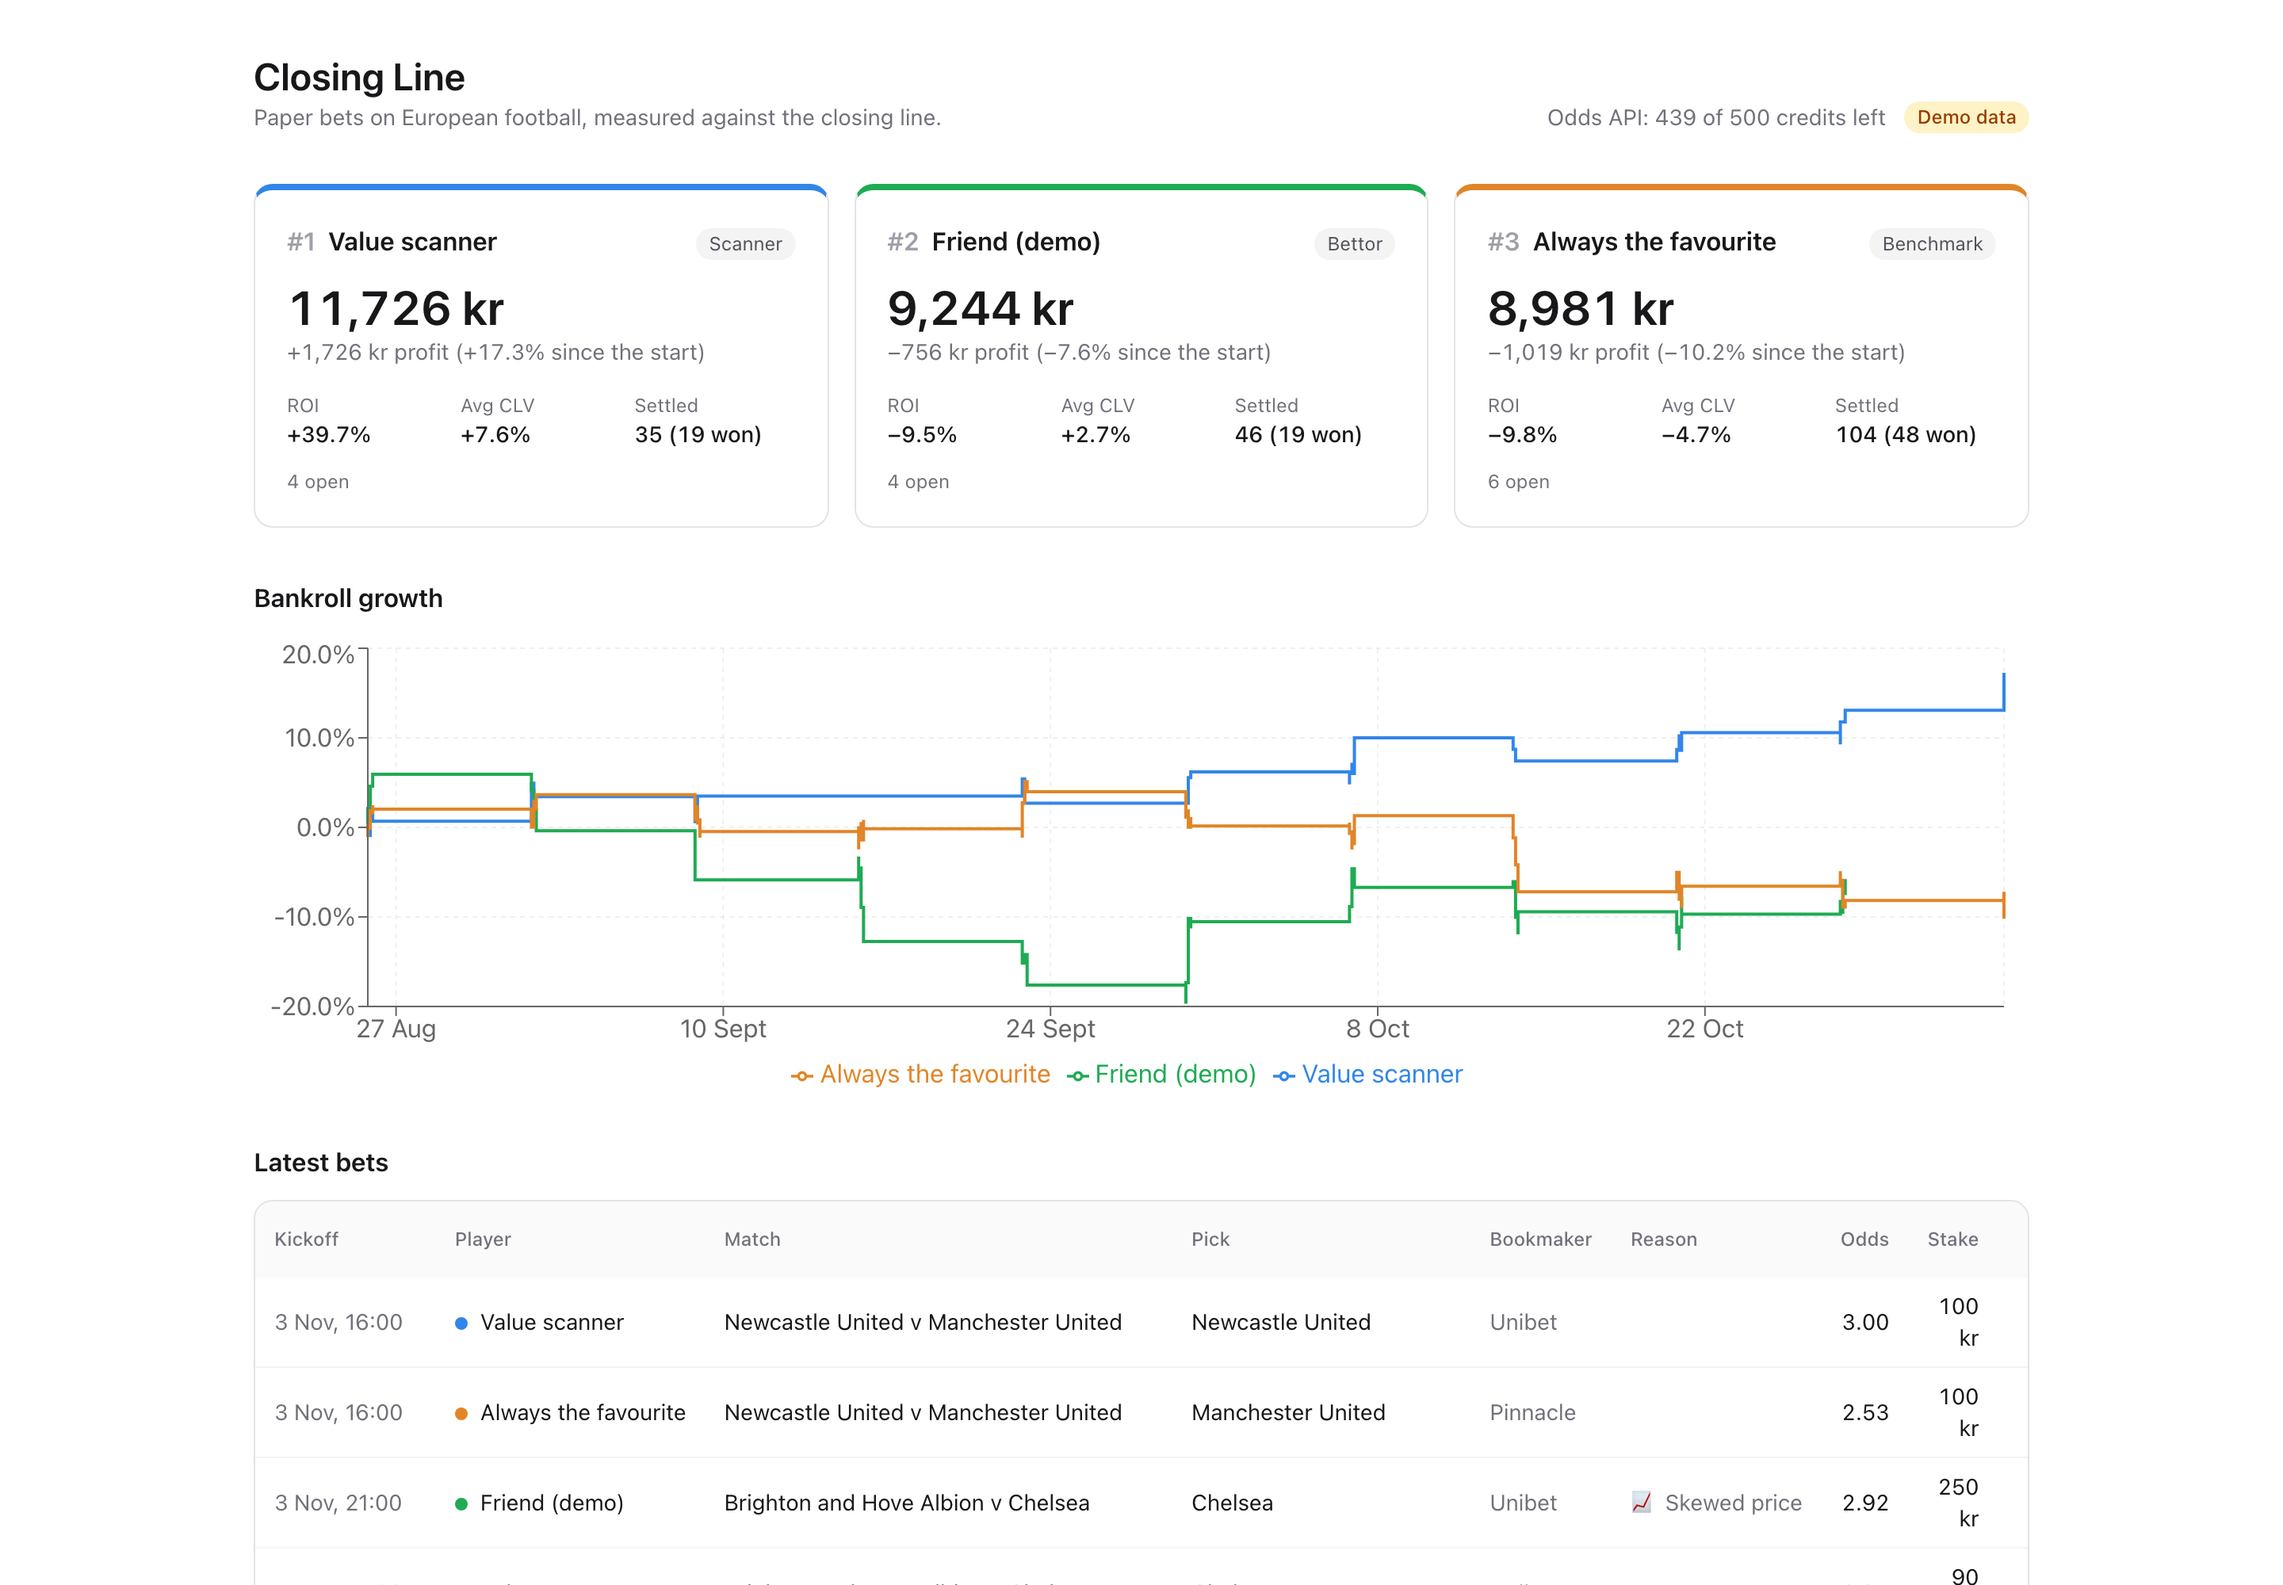
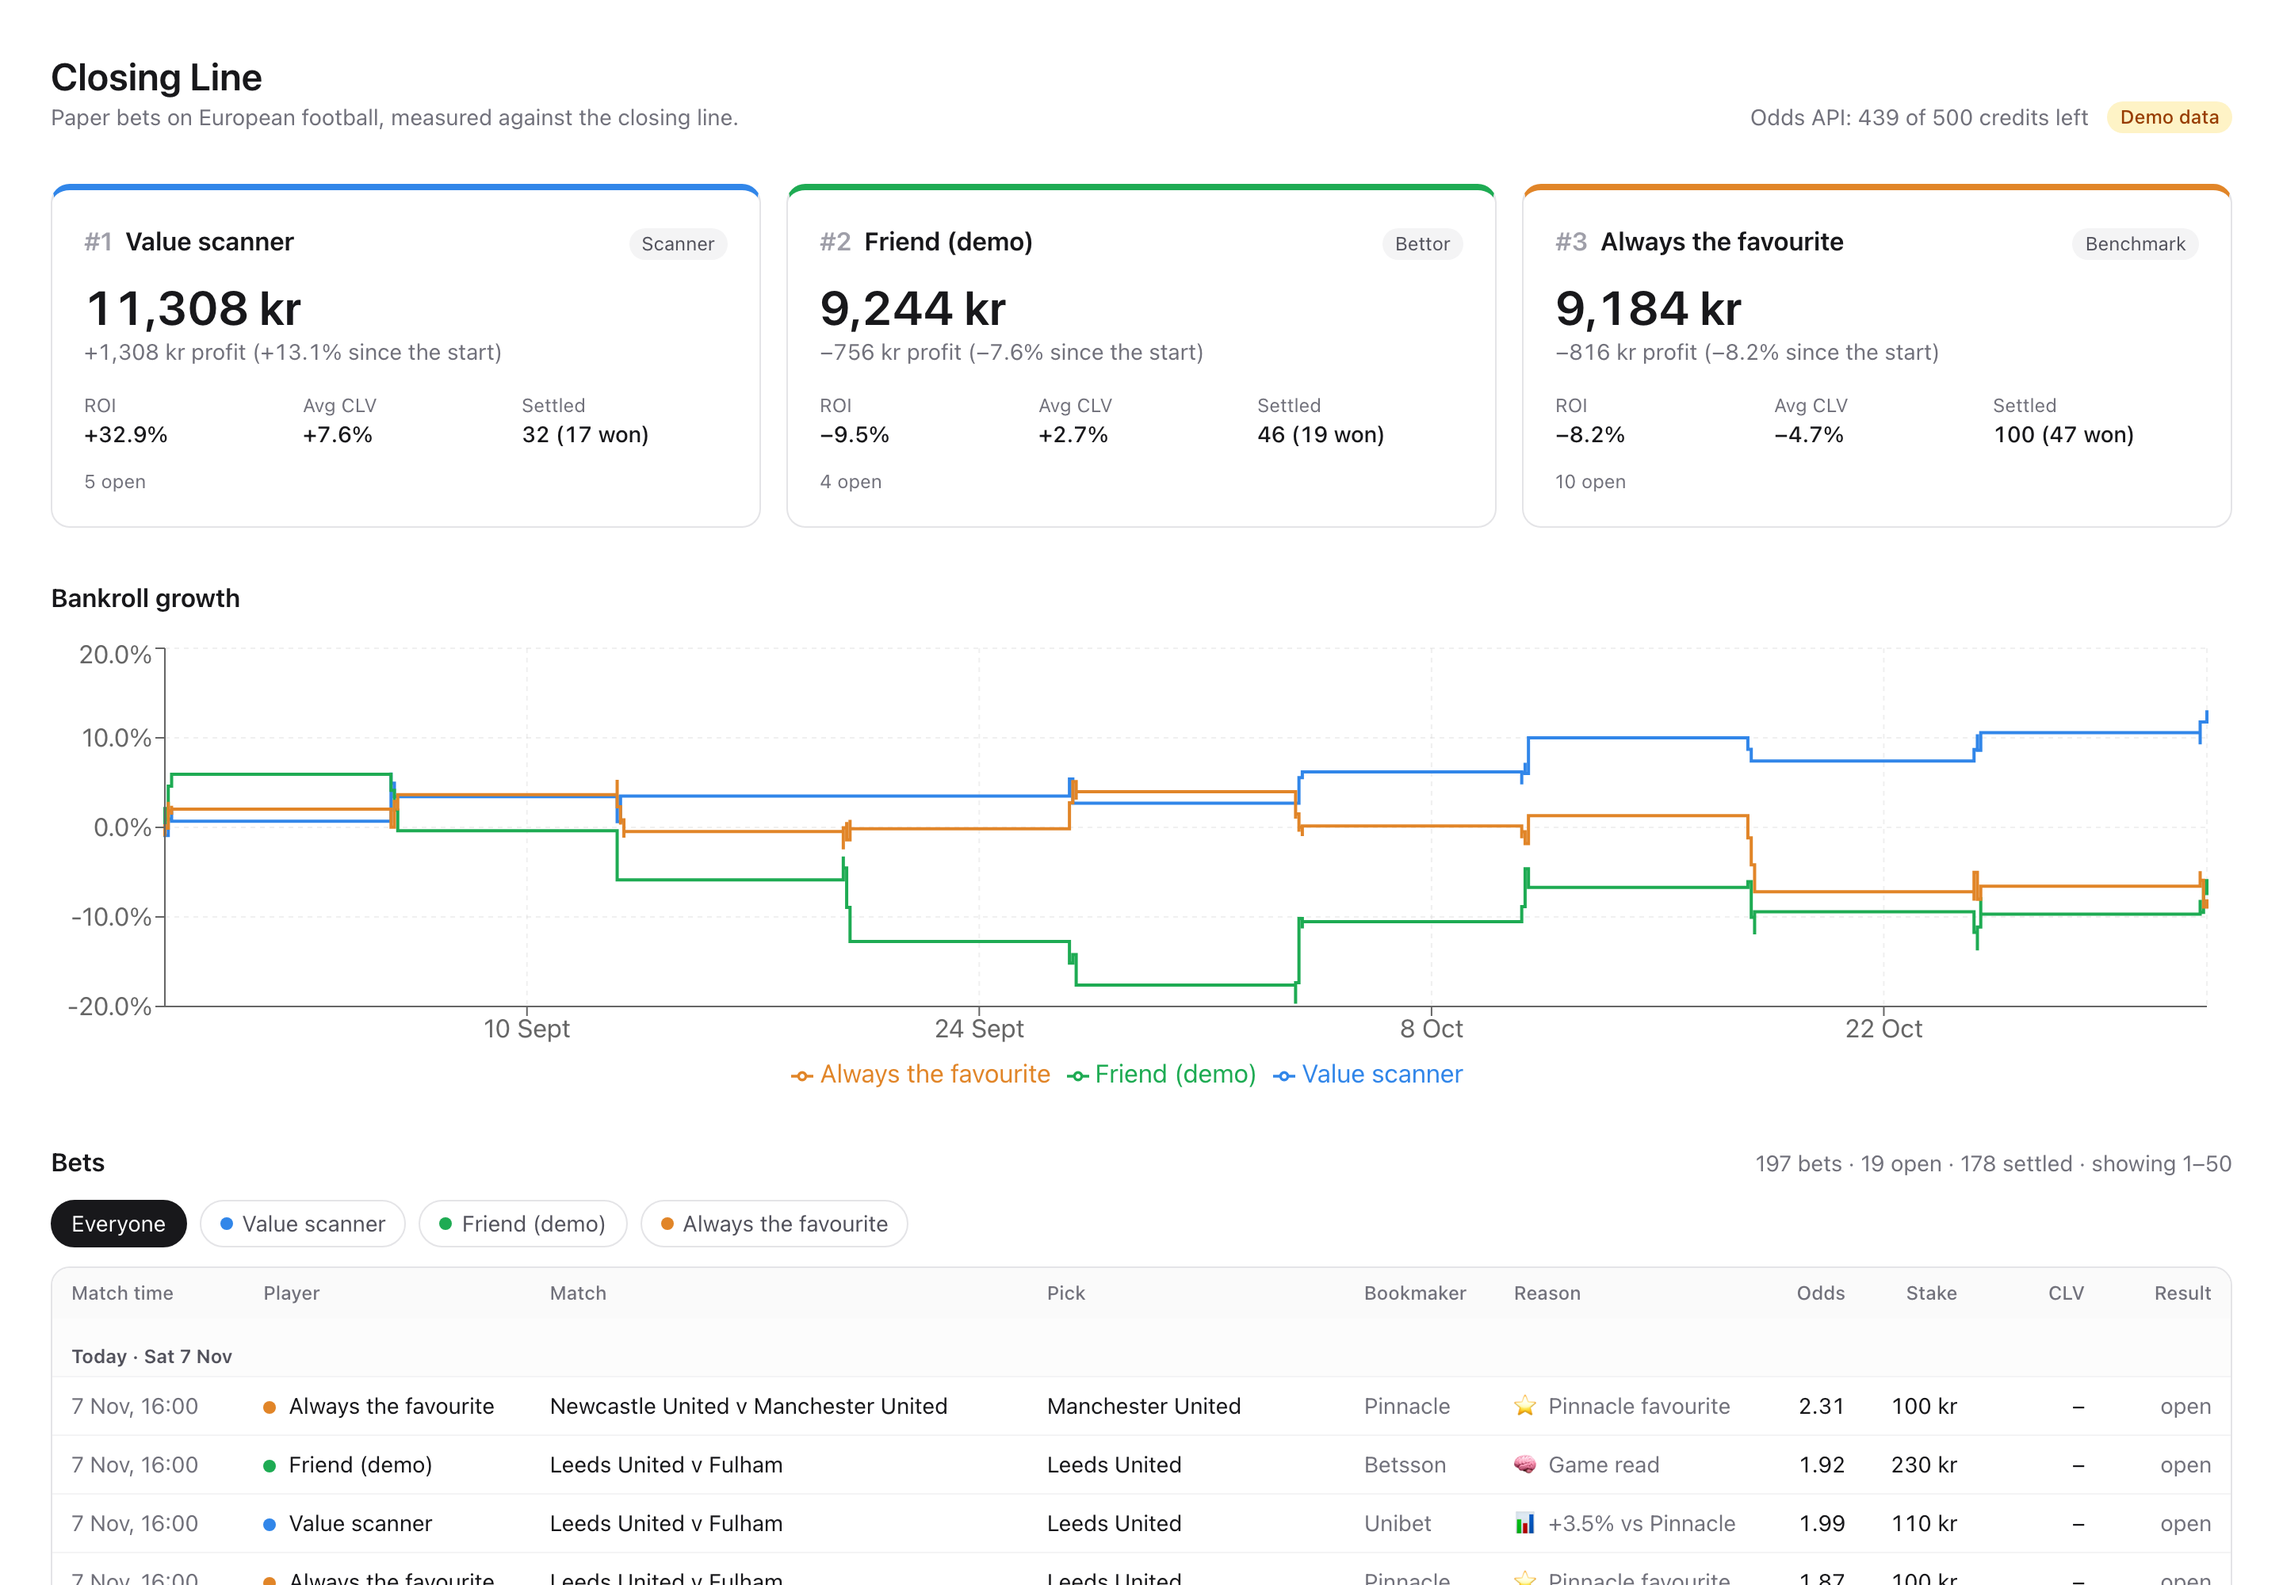
Widen the dashboard so the bets table fits, and refresh the README images (#112)
The page was capped at 1152 px, but the bets table needs about 1290 px since it gained CLV and Result, so on a laptop those two columns sat behind a sideways scroll. The page now goes to 1408 px.

The README images were from 4 November: no player filter, no day groups, and the /log prompt still said "Bayern – Arsenal". They are regenerated from demo data, and the scripted /log answer now uses "v" like the prompt.

diff --git a/apps/worker/scripts/screenshots.ts b/apps/worker/scripts/screenshots.ts
@@ -80,7 +80,7 @@ async function logConversation(): Promise<Message[]> {
     messages.push({ from: "bettor", text: "/log" });
     bot(await flow.bet(OWNER));
     await tap("Football");
-    await type("Arsenal – Chelsea");
+    await type("Arsenal v Chelsea");
     await tap("Shots on target");
     await type("Saka");
     await tap("Over 0.5");
@@ -127,7 +127,7 @@ function chat(title: string, messages: Message[]): string {
 const browser = await chromium.launch();
 const page = await browser.newPage({ deviceScaleFactor: 2 });
 
-// The top of the page: leaderboard, chart and the first bets, wide enough for every column of the table.
+// The top of the page: leaderboard, chart and the first bets. 1440 px shows every column of the table.
 await page.setViewportSize({ width: 1440, height: 1000 });
 await page.goto("http://localhost:3100");
 await page.getByTestId("bankroll-chart").locator("svg").first().waitFor();

diff --git a/apps/web/src/app/error.tsx b/apps/web/src/app/error.tsx
@@ -3,7 +3,7 @@
 /** Shown when the page cannot load, e.g. the database is unreachable; the worker keeps running either way. */
 export default function DashboardError({ reset }: { error: Error; reset: () => void }) {
     return (
-        <main className="mx-auto max-w-6xl space-y-4 px-4 py-8">
+        <main className="mx-auto max-w-[88rem] space-y-4 px-4 py-8">
             <h1 className="text-2xl font-semibold">Closing Line</h1>
             <p className="text-sm text-zinc-500">
                 The dashboard could not read the database just now. Bets and polls carry on in the worker.

diff --git a/apps/web/src/app/page.tsx b/apps/web/src/app/page.tsx
@@ -29,7 +29,7 @@ export default async function Home({ searchParams }: { searchParams: Promise<Rec
     }));
 
     return (
-        <main className="mx-auto max-w-6xl space-y-8 px-4 py-8">
+        <main className="mx-auto max-w-[88rem] space-y-8 px-4 py-8">
             <header className="flex flex-wrap items-end justify-between gap-4">
                 <div>
                     <h1 className="text-2xl font-semibold">Closing Line</h1>
